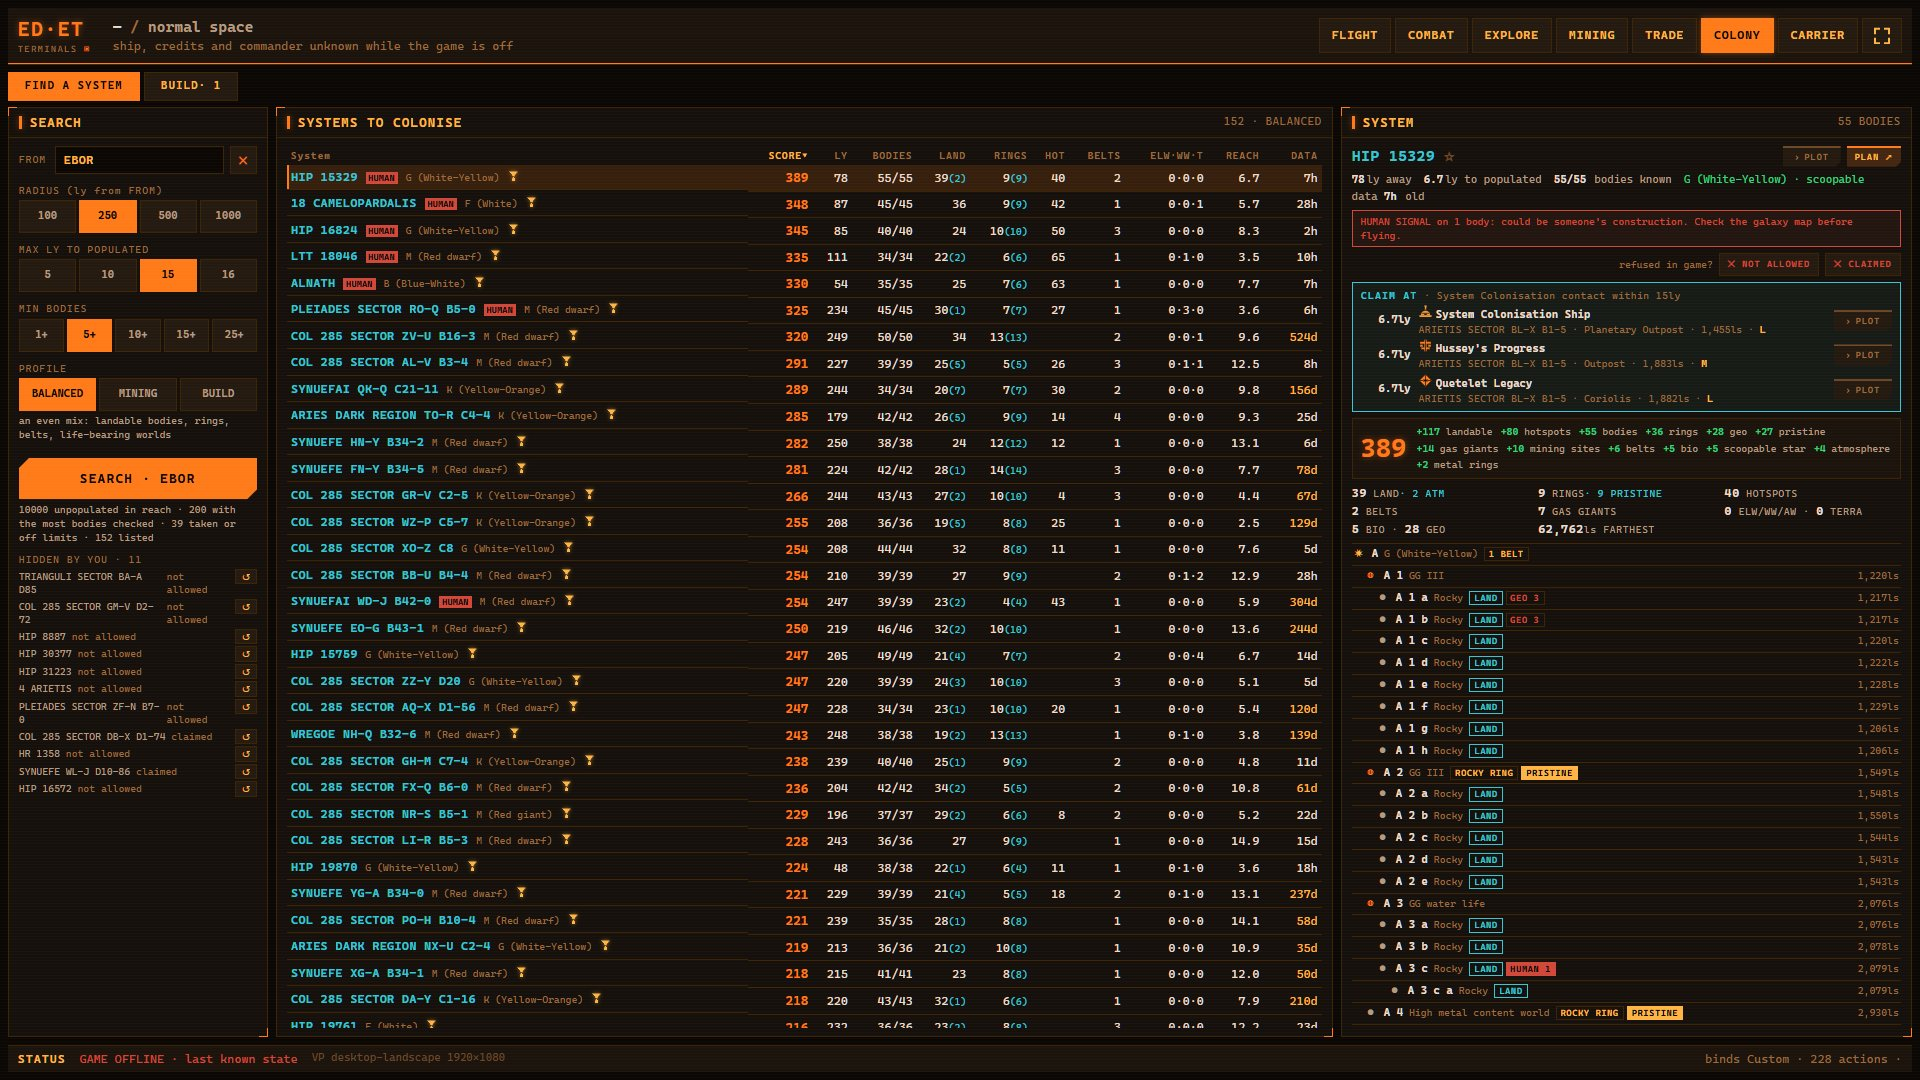
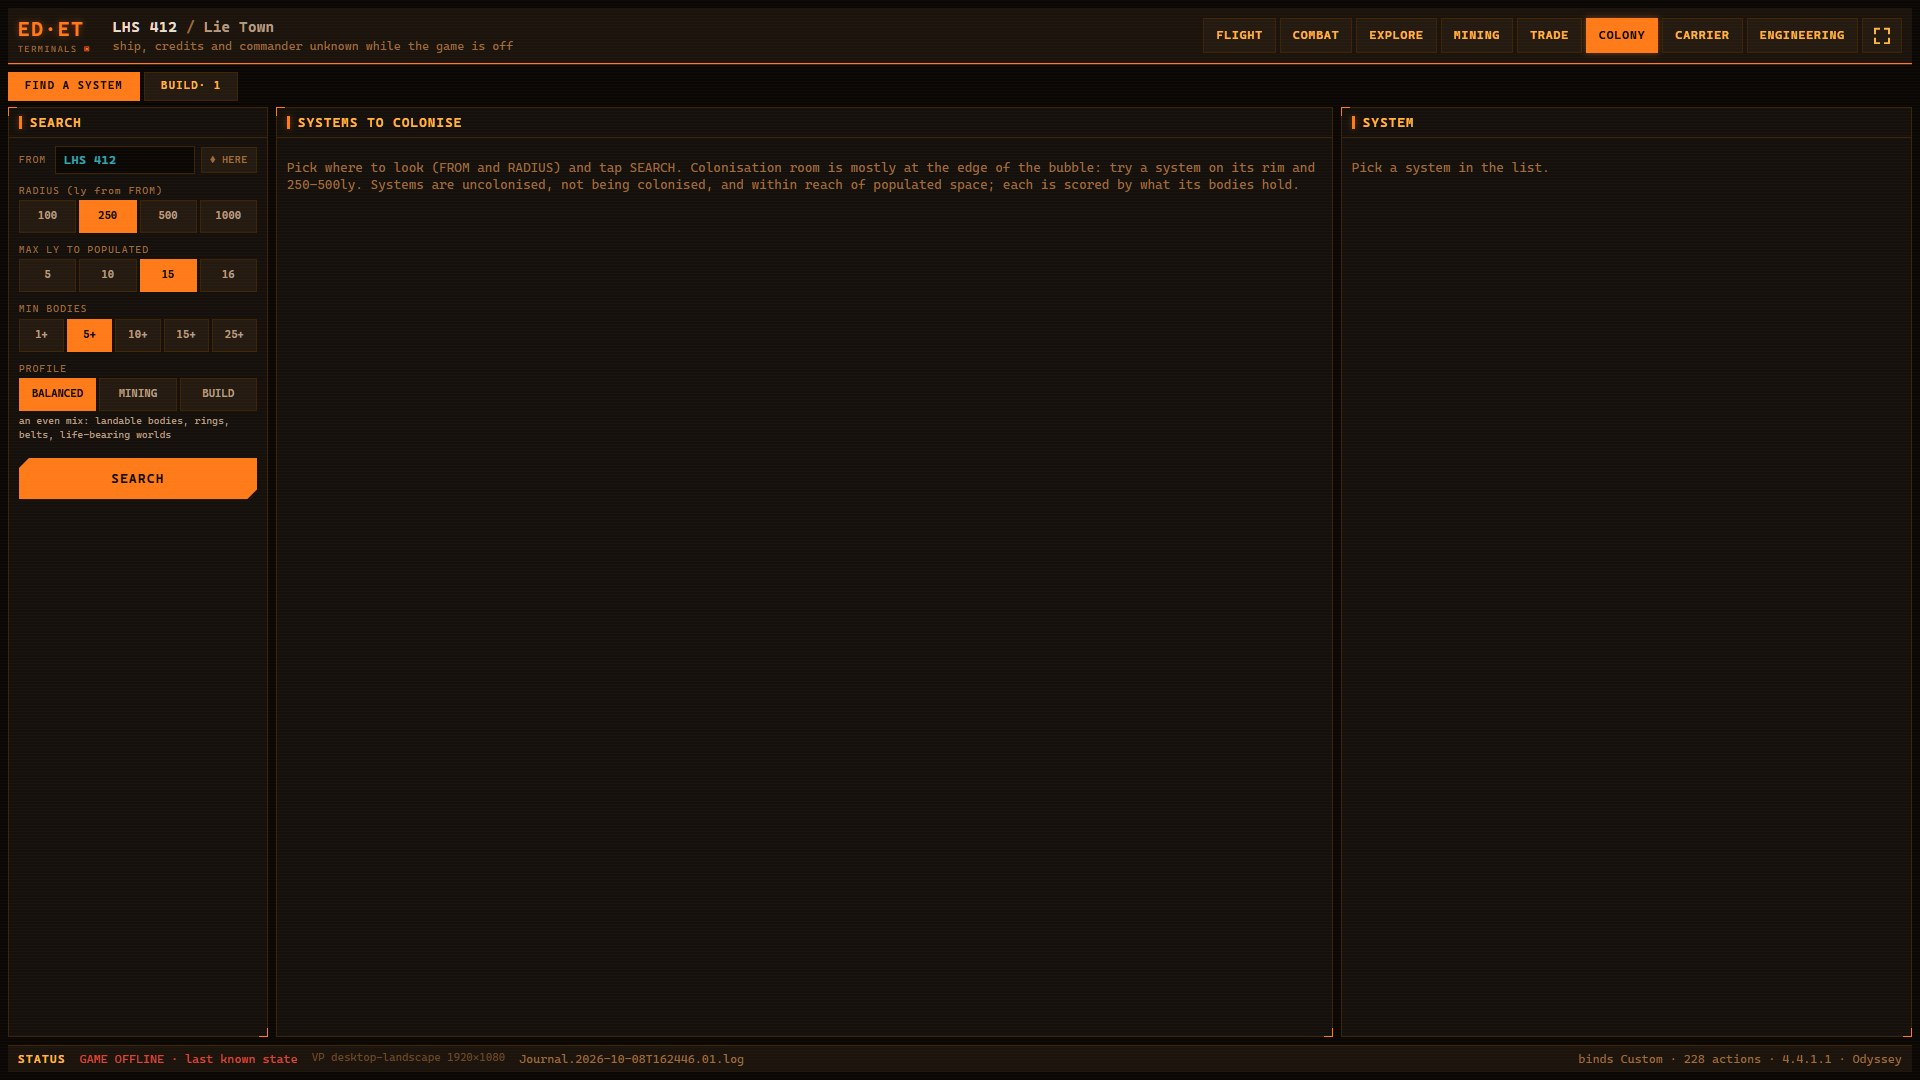
Action buttons say what they do (SCAN, SEARCH, PLOT ROUTE) with the system names in the tooltip, and the CARRIER button stops spanning the panel; README images retaken from the demo server with iPad and iPhone frames for TRADE, COLONY, CARRIER, EXPLORE and ENGINEERING

diff --git a/web/src/screens/Carrier.svelte b/web/src/screens/Carrier.svelte
@@ -269,8 +269,9 @@
           <span class="k">TRITIUM IN CARGO</span><input type="number" min="0" inputmode="numeric" bind:value={f.tritium} placeholder="0" />t</label>
         {#if f.used !== null || f.fuel !== null}<button class="link" onclick={() => ((f.used = null), (f.fuel = null))}>carrier's values</button>{/if}
       </div>
-      <button class="plot" disabled={busy || !q.from || !q.to.length} onclick={plot}>
-        {busy ? 'PLOTTING…' : `PLOT · ${(q.from || '?').toUpperCase()} → ${(q.to.at(-1) || '?').toUpperCase()}`}
+      <button class="plot" disabled={busy || !q.from || !q.to.length} onclick={plot}
+        title="Plot {(q.from || '?').toUpperCase()} → {(q.to.at(-1) || '?').toUpperCase()}">
+        {busy ? 'PLOTTING…' : 'PLOT ROUTE'}
       </button>
       {#if error}<p class="bad">{error}</p>{/if}
     </div>
@@ -425,8 +426,8 @@
   .nums input::-webkit-outer-spin-button, .nums input::-webkit-inner-spin-button { -webkit-appearance: none; margin: 0; }
   .link { background: none; border: 0; padding: 0; color: var(--hud-hi); text-decoration: underline; font: inherit; font-size: 10px; cursor: pointer; }
   .plot {
-    padding: 11px; background: var(--hud); color: var(--void); border: 0; font-weight: 800; letter-spacing: 0.1em; overflow-wrap: anywhere;
-    box-shadow: var(--glow); clip-path: polygon(10px 0, 100% 0, 100% calc(100% - 10px), calc(100% - 10px) 100%, 0 100%, 0 10px);
+    padding: 11px 28px; background: var(--hud); color: var(--void); border: 0; font-weight: 800; letter-spacing: 0.1em; overflow-wrap: anywhere;
+    align-self: flex-start; box-shadow: var(--glow); clip-path: polygon(10px 0, 100% 0, 100% calc(100% - 10px), calc(100% - 10px) 100%, 0 100%, 0 10px);
   }
   .plot:disabled { opacity: 0.6; }
 

diff --git a/web/src/screens/Trade.svelte b/web/src/screens/Trade.svelte
@@ -308,15 +308,16 @@
 
 {#snippet scanButton()}
   <button class="scan" disabled={busy || !!missing || (ts.tab === 'path' ? !toSystem : !(f.reference || s.location.system))}
+    title={ts.tab === 'path' ? (toSystem ? `Plot ${plotLabel}` : '') : `Scan around ${(f.reference || s.location.system || '—').toUpperCase()}`}
     onclick={() => scan(false)}>
     {#if busy}
       SCANNING {progress ? `${progress.loaded}/${progress.total}` : '…'}
     {:else if missing}
       {missing}
     {:else if ts.tab === 'path'}
-      {toSystem ? `PLOT · ${plotLabel}` : 'PICK DESTINATION'}
+      {toSystem ? 'PLOT ROUTE' : 'PICK DESTINATION'}
     {:else}
-      SCAN · {(f.reference || s.location.system).toUpperCase() || '—'}
+      SCAN
     {/if}
   </button>
   {#if busy && progress?.total}

diff --git a/web/src/screens/Colony.svelte b/web/src/screens/Colony.svelte
@@ -187,11 +187,12 @@
 {/snippet}
 
 {#snippet searchButton()}
-  <button class="search" disabled={busy || !(f.reference || s.location.system)} onclick={search}>
+  <button class="search" disabled={busy || !(f.reference || s.location.system)} onclick={search}
+    title="Search around {(f.reference || s.location.system || '?').toUpperCase()}">
     {#if busy}
       SEARCHING {progress?.total ? `${progress.loaded}/${progress.total}` : '…'}
     {:else}
-      SEARCH · {(f.reference || s.location.system || '?').toUpperCase()}
+      SEARCH
     {/if}
   </button>
   {#if busy && progress?.total}<div class="bar"><div style:width="{(progress.loaded / progress.total) * 100}%"></div></div>{/if}

diff --git a/README.md b/README.md
@@ -75,7 +75,7 @@ a second.
 
 **TRADE**
 
-![TRADE screen: loop routes with two pinned, live EDDN prices and a watched route](docs/images/trade.jpg)
+![TRADE screen: a scan of the markets around Lie Town, loop routes ranked by credits per hour and the best one open with live EDDN prices](docs/images/trade.jpg)
 
 - Scans the markets around you, or around **any system you pick** (FROM, with name search), 10 to 80 ly out,
   and ranks **loop routes** (A → B → A) and **linear routes** (up to five stops) by Cr/t, total profit, Cr/h or profit %.
@@ -109,11 +109,11 @@ a second.
   credits and commander are not shown while the game is off.
 - The session (profit, Cr/h, tons sold, hold) sits in a strip under the routes on monitors.
 
-![TRADE on an iPad standing up and on an iPhone](docs/images/trade-devices.jpg)
+![TRADE on an iPad standing up and on an iPhone: the same scan and the route sheet, one page at a time](docs/images/devices-trade.jpg)
 
 **COLONY**
 
-![COLONY finder: systems to colonise around Ebor, the top one open with where to claim it](docs/images/colony.jpg)
+![COLONY finder: systems to colonise, the top one open with its body tree and where to claim it](docs/images/colony.jpg)
 
 - **Find a system to colonise** around any system: uncolonised systems within reach of populated space (up to
   16 ly), ranked by landable bodies, ring hotspots, pristine rings, belts, gas giants, life-bearing worlds and a
@@ -124,7 +124,9 @@ a second.
 - **Claim at**: the nearest stations offering System Colonisation within 15 ly, with PLOT.
 - **PLAN ↗** opens the system in [RavenColonial](https://ravencolonial.com) for the build plan.
 
-![COLONY build tracker: what the construction site still needs, what the carrier holds, and where to buy the rest](docs/images/colony-build.jpg)
+![COLONY build tracker: what the construction site still needs, what the carrier holds, and the markets that sell the rest](docs/images/colony-build.jpg)
+
+![COLONY on an iPad and two iPhone pages: the system sheet and the construction site](docs/images/devices-colony.jpg)
 
 - **BUILD** follows each construction site you dock at, from the journal, in sections: **progress** (delivered, left,
   in the hold, **on your carrier**, still to buy), **delivery** (your delivery ship's hold, trips left, the pace
@@ -138,6 +140,8 @@ a second.
 **CARRIER**
 
 ![CARRIER: status sheet of the fleet carrier (tritium, space, cargo, finances, income and upkeep) and a three-jump route as stop cards with the tritium of each jump](docs/images/carrier.jpg)
+
+![CARRIER on an iPad and an iPhone: the jump planner as stop cards](docs/images/devices-carrier.jpg)
 
 - A **status sheet** of the fleet carrier as the journal last showed it, in sections: where it is and a scheduled
   jump with its countdown; the **tritium** in the tank; the **space** used (services, cargo, buy orders, packs); the
@@ -158,6 +162,8 @@ a second.
 
 **EXPLORE**
 
+![EXPLORE: the system map with the orbits in the game's order, the highlight chips and the bodies worth a stop](docs/images/explore.jpg)
+
 - A **system map** of the orbits, drawn from [Spansh](https://spansh.co.uk) and overlaid with your own journal scans:
   stars, planets and moons in the game's own numbering (A 17 before A 18), rings and **asteroid belts** at their real
   distance, planets coloured by type, and marks for scanned, first discovery and mapped. Drag or scroll sideways to
@@ -171,7 +177,11 @@ a second.
   terraformable bodies and geology. **MAP** opens the system, **PLOT** routes to it.
 - An **EXP** button next to PLOT in FLIGHT and COLONY opens the system you are looking at in EXPLORE.
 
+![EXPLORE and ENGINEERING on an iPad and two iPhone pages](docs/images/devices-explore.jpg)
+
 **ENGINEERING**
+
+![ENGINEERING: raw, manufactured and encoded materials by grade with the storage limit, and the engineers](docs/images/engineering.jpg)
 
 - Your **materials** (raw, manufactured, encoded) by grade with the storage limit of each grade, read from the game
   and kept up to date as you collect, trade, craft and synthesise; search, and sort by grade, name or count.
@@ -202,7 +212,7 @@ a second.
   and other signals.
 - Open `http://localhost:8420/?sheet=icons` to see the whole set.
 
-> EXPLORE and MINING show a *coming soon* screen for now. See the [roadmap](#roadmap).
+> MINING shows a *coming soon* screen for now. See the [roadmap](#roadmap).
 
 ## How it works
 
